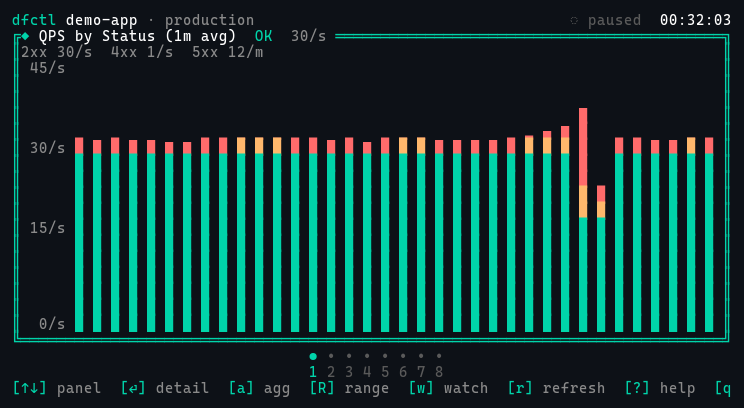
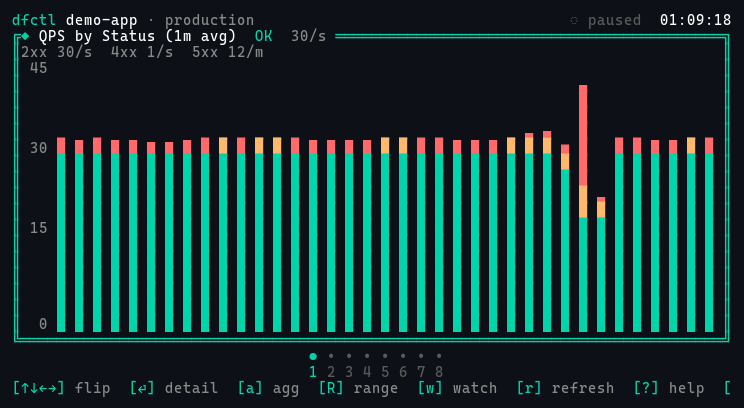
fix mobile UX (dot indicator misdirection, Y axis hogging, alert overload)
User feedback found three real issues on iPhone and iPad SSH:

1. Phone-tier dot indicator showed 8 panels horizontally but only ↑↓/jk paged;
   users naturally tried ←→/hl and got nothing useful. Fix: any arrow or hjkl
   key now flips one panel on the phone tier (input.rs); footer hint says
   "[↑↓←→] flip" to match the horizontal dots.

2. Y-axis labels ate 6+ columns on 80-wide phones, squeezing the chart to the
   right. Added `compact` mode to AreaChart and StackedBar that:
     - drops units in axis labels (kept in title/badge)
     - clamps label_w to 3-5 on AreaChart, 4 on StackedBar
     - phone tier passes compact=true through MetricPanel

3. iPad portrait + WARN cascade was overloading the eye: every WARN panel had
   a saturated orange border, all 8 panels stacked uniformly. Now:
     - WARN borders drop to BORDER_DIM grey; warning signal carried by ▲ glyph
       + orange title badge instead of frame paint
     - SingleColumn weights golden signals (QPS/Latency/ErrorRate) at 2× the
       other five panels — they read as real charts, the rest as ledger lines
     - Only ALERT keeps a saturated thick frame (something is on fire)

Codex independent UX audit drove these changes.

diff --git a/src/commands/monitor/widgets/panel.rs b/src/commands/monitor/widgets/panel.rs
@@ -18,6 +18,8 @@ pub struct MetricPanel<'a> {
     pub focused: bool,
     pub agg_mode: AggMode,
     pub traffic_display: TrafficDisplay,
+    /// Compact mode: narrower Y axis labels + tighter chart for phone tier.
+    pub compact: bool,
 }
 
 impl<'a> Widget for MetricPanel<'a> {
@@ -26,19 +28,34 @@ impl<'a> Widget for MetricPanel<'a> {
             return;
         }
         let status = assess_health(self.metric, &self.data.series);
+        // Border presentation rules:
+        //   focused                  → Double border, accent_ok colour (full attention)
+        //   ALERT (regardless focus) → Thick border, alert red (must-see)
+        //   WARN  (not focused)      → Rounded + warn orange
+        //   OK    (not focused)      → Rounded + dim grey (recede)
         let (border_color, border_type) = if self.focused {
             (ACCENT_OK, BorderType::Double)
+        } else if matches!(status, HealthStatus::Alert) {
+            // ALERT: thick saturated frame (something is on fire)
+            (status.color(), BorderType::Thick)
         } else {
+            // OK & WARN: dim grey rounded frame — recede so charts pop
             (status.border_color(), BorderType::Rounded)
         };
 
         // ── Title ──
         let title_spans = build_title(self.metric, &self.data, status, self.focused, self.agg_mode);
+        let mut border_style = Style::default().fg(border_color.to_color());
+        // Only ALERT borders are bolded — WARN signals are carried by the title
+        // badge and ▲ glyph, not by the frame.
+        if matches!(status, HealthStatus::Alert) && !self.focused {
+            border_style = border_style.add_modifier(Modifier::BOLD);
+        }
         let block = Block::default()
             .borders(Borders::ALL)
             .border_type(border_type)
             .title(Line::from(title_spans))
-            .style(Style::default().fg(border_color.to_color()));
+            .style(border_style);
         let inner = block.inner(area);
         block.render(area, buf);
 
@@ -61,11 +78,11 @@ impl<'a> Widget for MetricPanel<'a> {
         let body = Rect::new(inner.x, body_y, inner.width, body_h);
 
         match self.metric {
-            MetricKind::Qps => render_stacked(self.data, body, buf, self.traffic_display),
+            MetricKind::Qps => render_stacked(self.data, body, buf, self.traffic_display, self.compact),
             MetricKind::Replicas => {
                 ReplicasTable { pods: self.pods }.render(body, buf);
             }
-            _ => render_area(self.metric, self.data, body, buf, false, self.agg_mode),
+            _ => render_area(self.metric, self.data, body, buf, false, self.agg_mode, self.compact),
         }
     }
 }
@@ -78,9 +95,22 @@ fn build_title(
     agg_mode: AggMode,
 ) -> Vec<Span<'static>> {
     let mut spans = Vec::new();
+    // Status glyph: filled diamond for OK, triangle (alert/warn) for issues.
+    // Triangles draw the eye faster than the same-shape diamond.
+    let glyph = match status {
+        HealthStatus::Alert => "▲ ",
+        HealthStatus::Warn => "▲ ",
+        HealthStatus::Ok => "◆ ",
+    };
     spans.push(Span::styled(
-        "◆ ",
-        Style::default().fg(status.color().to_color()),
+        glyph,
+        Style::default()
+            .fg(status.color().to_color())
+            .add_modifier(if matches!(status, HealthStatus::Ok) {
+                Modifier::empty()
+            } else {
+                Modifier::BOLD
+            }),
     ));
     let title = metric.title().to_string();
     let title_with_unit = match metric {
@@ -240,7 +270,13 @@ fn format_short_value(v: f64, unit: &str) -> String {
     }
 }
 
-fn render_stacked(data: &MetricData, area: Rect, buf: &mut Buffer, display: TrafficDisplay) {
+fn render_stacked(
+    data: &MetricData,
+    area: Rect,
+    buf: &mut Buffer,
+    display: TrafficDisplay,
+    compact: bool,
+) {
     let series: Vec<StackedSeries> = data
         .series
         .iter()
@@ -257,6 +293,7 @@ fn render_stacked(data: &MetricData, area: Rect, buf: &mut Buffer, display: Traf
         series,
         unit: &data.unit,
         display,
+        compact,
     }
     .render(area, buf);
 }
@@ -268,8 +305,9 @@ fn render_area(
     buf: &mut Buffer,
     with_cursor: bool,
     agg_mode: AggMode,
+    compact: bool,
 ) {
-    let mut chart = AreaChart::new(&data.unit).cursor(with_cursor);
+    let mut chart = AreaChart::new(&data.unit).cursor(with_cursor).compact(compact);
 
     // Pick which series to display based on aggregation mode for CPU/Memory-style
     // multi-series metrics that carry both aggregate lines and per-pod lines.

diff --git a/src/commands/monitor/widgets/chart.rs b/src/commands/monitor/widgets/chart.rs
@@ -25,6 +25,9 @@ pub struct AreaChart<'a> {
     /// for evenly-spaced time labels.
     pub time_range: Option<(chrono::DateTime<chrono::Utc>, chrono::DateTime<chrono::Utc>)>,
     pub x_label_count: u8,
+    /// Compact mode trims Y-axis label width and reduces label count. Use on phone
+    /// tiers where horizontal space is at a premium.
+    pub compact: bool,
 }
 
 impl<'a> AreaChart<'a> {
@@ -39,6 +42,7 @@ impl<'a> AreaChart<'a> {
             cursor_at_end: false,
             time_range: None,
             x_label_count: 7,
+            compact: false,
         }
     }
 
@@ -49,6 +53,11 @@ impl<'a> AreaChart<'a> {
 
     pub fn cursor(mut self, cursor: bool) -> Self {
         self.cursor_at_end = cursor;
+        self
+    }
+
+    pub fn compact(mut self, compact: bool) -> Self {
+        self.compact = compact;
         self
     }
 
@@ -87,11 +96,21 @@ impl<'a> Widget for AreaChart<'a> {
             .map(|i| {
                 let frac = i as f32 / (self.y_axis_labels.max(2) - 1) as f32;
                 let value = preview_max - (preview_max - preview_min) * frac as f64;
-                format_y_label(value, self.unit).chars().count()
+                if self.compact {
+                    format_y_label_compact(value, self.unit).chars().count()
+                } else {
+                    format_y_label(value, self.unit).chars().count()
+                }
             })
             .max()
             .unwrap_or(4);
-        let label_w = (widest_label as u16 + 1).clamp(4, 8);
+        // Compact mode caps label width at 5 (e.g. "100ms", "98%"). Default keeps
+        // [4, 8] for desktop's full-precision labels ("241ms", "98.3%").
+        let label_w = if self.compact {
+            (widest_label as u16 + 1).clamp(3, 5)
+        } else {
+            (widest_label as u16 + 1).clamp(4, 8)
+        };
 
         // ── Y axis layout ──
         let chart_x = area.x + label_w;
@@ -144,7 +163,11 @@ impl<'a> Widget for AreaChart<'a> {
             let frac = i as f32 / (n_labels - 1) as f32;
             let value = y_max - (y_max - y_min) * frac as f64;
             let row = chart_y + ((chart_h - 1) as f32 * frac) as u16;
-            let label = format_y_label(value, self.unit);
+            let label = if self.compact {
+                format_y_label_compact(value, self.unit)
+            } else {
+                format_y_label(value, self.unit)
+            };
             let span = Span::styled(
                 format!("{:>width$}", label, width = (label_w - 1) as usize),
                 Style::default().fg(TEXT_SECONDARY.to_color()),
@@ -333,6 +356,34 @@ pub fn format_y_label(value: f64, unit: &str) -> String {
         "rpm" => format_traffic(value),
         "/s" | "qps" => format_traffic(value * 60.0),
         _ => format_decimal(value),
+    }
+}
+
+/// Compact Y axis label for phone tier — strips units (kept in the panel title)
+/// to keep label_w ≤ 4 even at "100", "1.5G", or "1.2K" scales.
+pub fn format_y_label_compact(value: f64, unit: &str) -> String {
+    match unit {
+        "%" => format!("{:.0}", value),
+        "ms" => format!("{:.0}", value),
+        "GB" => format!("{:.1}", value),
+        "bytes" => format_bytes(value),
+        "rpm" => {
+            let qps = value / 60.0;
+            if qps < 1.0 { format!("{:.0}", value) }
+            else if qps < 1000.0 { format!("{:.0}", qps) }
+            else { format!("{:.1}k", qps / 1000.0) }
+        }
+        _ => {
+            if value.abs() >= 1000.0 {
+                format!("{:.1}k", value / 1000.0)
+            } else if value.abs() >= 100.0 {
+                format!("{:.0}", value)
+            } else if value.abs() >= 10.0 {
+                format!("{:.1}", value)
+            } else {
+                format!("{:.2}", value)
+            }
+        }
     }
 }
 

diff --git a/src/commands/monitor/widgets/stacked_bar.rs b/src/commands/monitor/widgets/stacked_bar.rs
@@ -17,6 +17,7 @@ pub struct StackedBar<'a> {
     pub series: Vec<StackedSeries>,
     pub unit: &'a str,
     pub display: TrafficDisplay,
+    pub compact: bool,
 }
 
 pub struct StackedSeries {
@@ -33,7 +34,7 @@ impl<'a> Widget for StackedBar<'a> {
         if area.width < 10 || area.height < 4 || self.series.is_empty() {
             return;
         }
-        let label_w: u16 = 6;
+        let label_w: u16 = if self.compact { 4 } else { 6 };
         let chart_x = area.x + label_w;
         let chart_w = area.width.saturating_sub(label_w);
         let chart_h = area.height;
@@ -83,9 +84,11 @@ impl<'a> Widget for StackedBar<'a> {
             let frac = i as f32 / (n_labels - 1) as f32;
             let value = max_total - (max_total) * frac as f64;
             let row = area.y + ((chart_h - 1) as f32 * frac) as u16;
-            let label = match display_unit {
-                "qps" => format!("{:.0}/s", value / 60.0),
-                "rpm" => format!("{:.0}/m", value),
+            let label = match (display_unit, self.compact) {
+                ("qps", true) => format!("{:.0}", value / 60.0),
+                ("qps", false) => format!("{:.0}/s", value / 60.0),
+                ("rpm", true) => format!("{:.0}", value),
+                ("rpm", false) => format!("{:.0}/m", value),
                 _ => format_y_label(value, display_unit),
             };
             let span = Span::styled(

diff --git a/src/commands/monitor/layout/overview.rs b/src/commands/monitor/layout/overview.rs
@@ -61,6 +61,12 @@ pub fn compute_two_by_four(area: Rect, _large: bool, sidebar: bool) -> OverviewR
     }
 }
 
+/// Single-column layout for narrow desktop / portrait terminals.
+///
+/// Eight panels stacked vertically with **weighted heights**: the first three
+/// (QPS / Latency / Error Rate — the golden signals) get 2× the height of the
+/// other five so they read like real charts instead of a uniform wall. This
+/// matches the "重点 + 列表" pattern Codex recommended for the portrait tier.
 pub fn compute_single_column(area: Rect) -> OverviewRects {
     let vertical = Layout::default()
         .direction(Direction::Vertical)
@@ -76,9 +82,14 @@ pub fn compute_single_column(area: Rect) -> OverviewRects {
     let body = vertical[2];
     let footer = vertical[4];
 
+    // Weights: golden signals × 2, the rest × 1.
+    // Order matches MetricKind::all_default(): Qps, Latency, ErrorRate,
+    // Upstream, Cpu, Memory, Replicas, Runtime.
+    let weights = [2u16, 2, 2, 1, 1, 1, 1, 1];
+    let constraints: Vec<Constraint> = weights.iter().map(|w| Constraint::Ratio(*w as u32, 11)).collect();
     let rows = Layout::default()
         .direction(Direction::Vertical)
-        .constraints(vec![Constraint::Ratio(1, 8); 8])
+        .constraints(constraints)
         .split(body);
     OverviewRects {
         header,

diff --git a/src/commands/monitor/input.rs b/src/commands/monitor/input.rs
@@ -98,11 +98,23 @@ pub fn handle_key(key: KeyEvent, st: &mut AppState, tier: LayoutTier) -> Action 
 
     match st.view {
         View::Overview => match key.code {
-            // Phone tier: arrows / hjkl all page through panels (no 2D grid)
-            KeyCode::Up | KeyCode::Char('k') if matches!(tier, LayoutTier::Phone) => {
+            // Phone tier: *all four arrows + hjkl* page through panels. The dot
+            // indicator is horizontal, so users naturally expect ←→ to flip pages;
+            // ↑↓ also works (vim-style + intuitive for vertical lists).
+            KeyCode::Up
+            | KeyCode::Left
+            | KeyCode::Char('k')
+            | KeyCode::Char('h')
+                if matches!(tier, LayoutTier::Phone) =>
+            {
                 st.cycle_focus(-1)
             }
-            KeyCode::Down | KeyCode::Char('j') if matches!(tier, LayoutTier::Phone) => {
+            KeyCode::Down
+            | KeyCode::Right
+            | KeyCode::Char('j')
+            | KeyCode::Char('l')
+                if matches!(tier, LayoutTier::Phone) =>
+            {
                 st.cycle_focus(1)
             }
             // Desktop tiers: 2D grid movement

diff --git a/src/commands/monitor/theme.rs b/src/commands/monitor/theme.rs
@@ -25,10 +25,16 @@ impl HealthStatus {
         }
     }
 
+    /// Border tint for panels (chrome). Kept subtle so the eye lands on data,
+    /// not on a wall of colored frames. The badge/title carry the actual status
+    /// signal in saturated colour.
     pub fn border_color(&self) -> Rgb {
         match self {
-            HealthStatus::Ok => BORDER_DIM,
-            HealthStatus::Warn => ACCENT_WARN,
+            // OK and WARN both use the same dim grey — the warning is communicated
+            // by the title badge, the chart spike colour, and the ▲ glyph, not by
+            // the frame around the panel.
+            HealthStatus::Ok | HealthStatus::Warn => BORDER_DIM,
+            // ALERT keeps a tinted frame (saturated red) because something is on fire.
             HealthStatus::Alert => ACCENT_ALERT,
         }
     }

diff --git a/src/commands/monitor/widgets/footer.rs b/src/commands/monitor/widgets/footer.rs
@@ -42,9 +42,11 @@ impl<'a> Widget for Footer<'a> {
 
         match self.state.view {
             View::Overview => {
-                // Phone tier doesn't have a 2D grid — arrows page through panels
+                // Phone tier doesn't have a 2D grid — any arrow flips one panel.
+                // Showing all four arrows in the hint matches the dot-indicator's
+                // horizontal layout so users naturally try ←→ too.
                 if matches!(self.tier(), LayoutTier::Phone) {
-                    spans.extend(key("↑↓", "panel"));
+                    spans.extend(key("↑↓←→", "flip"));
                 } else {
                     spans.extend(key("↑↓←→", "focus"));
                 }

diff --git a/src/commands/monitor/render/phone.rs b/src/commands/monitor/render/phone.rs
@@ -39,6 +39,8 @@ pub fn draw_phone(area: Rect, buf: &mut Buffer, st: &AppState) {
             focused: true,
             agg_mode: st.agg_mode(metric),
             traffic_display: pick_traffic_display(st),
+            // Phone tier: narrow Y-axis labels so the chart gets more horizontal space.
+            compact: true,
         }
         .render(rects.panel, buf);
     }

diff --git a/src/commands/monitor/render/overview.rs b/src/commands/monitor/render/overview.rs
@@ -50,6 +50,7 @@ pub fn draw_overview(area: Rect, buf: &mut Buffer, st: &AppState, tier: LayoutTi
                 focused: i == st.focused_panel,
                 agg_mode: st.agg_mode(metric),
                 traffic_display: pick_traffic_display(st),
+                compact: false,
             }
             .render(*panel, buf);
         }

diff --git a/src/commands/monitor/render/helpers.rs b/src/commands/monitor/render/helpers.rs
@@ -218,6 +218,7 @@ pub fn render_single_chart(
             series,
             unit: &md.unit,
             display: widgets::stacked_bar::TrafficDisplay::Auto,
+            compact: false,
         }
         .render(area, buf);
         return;
